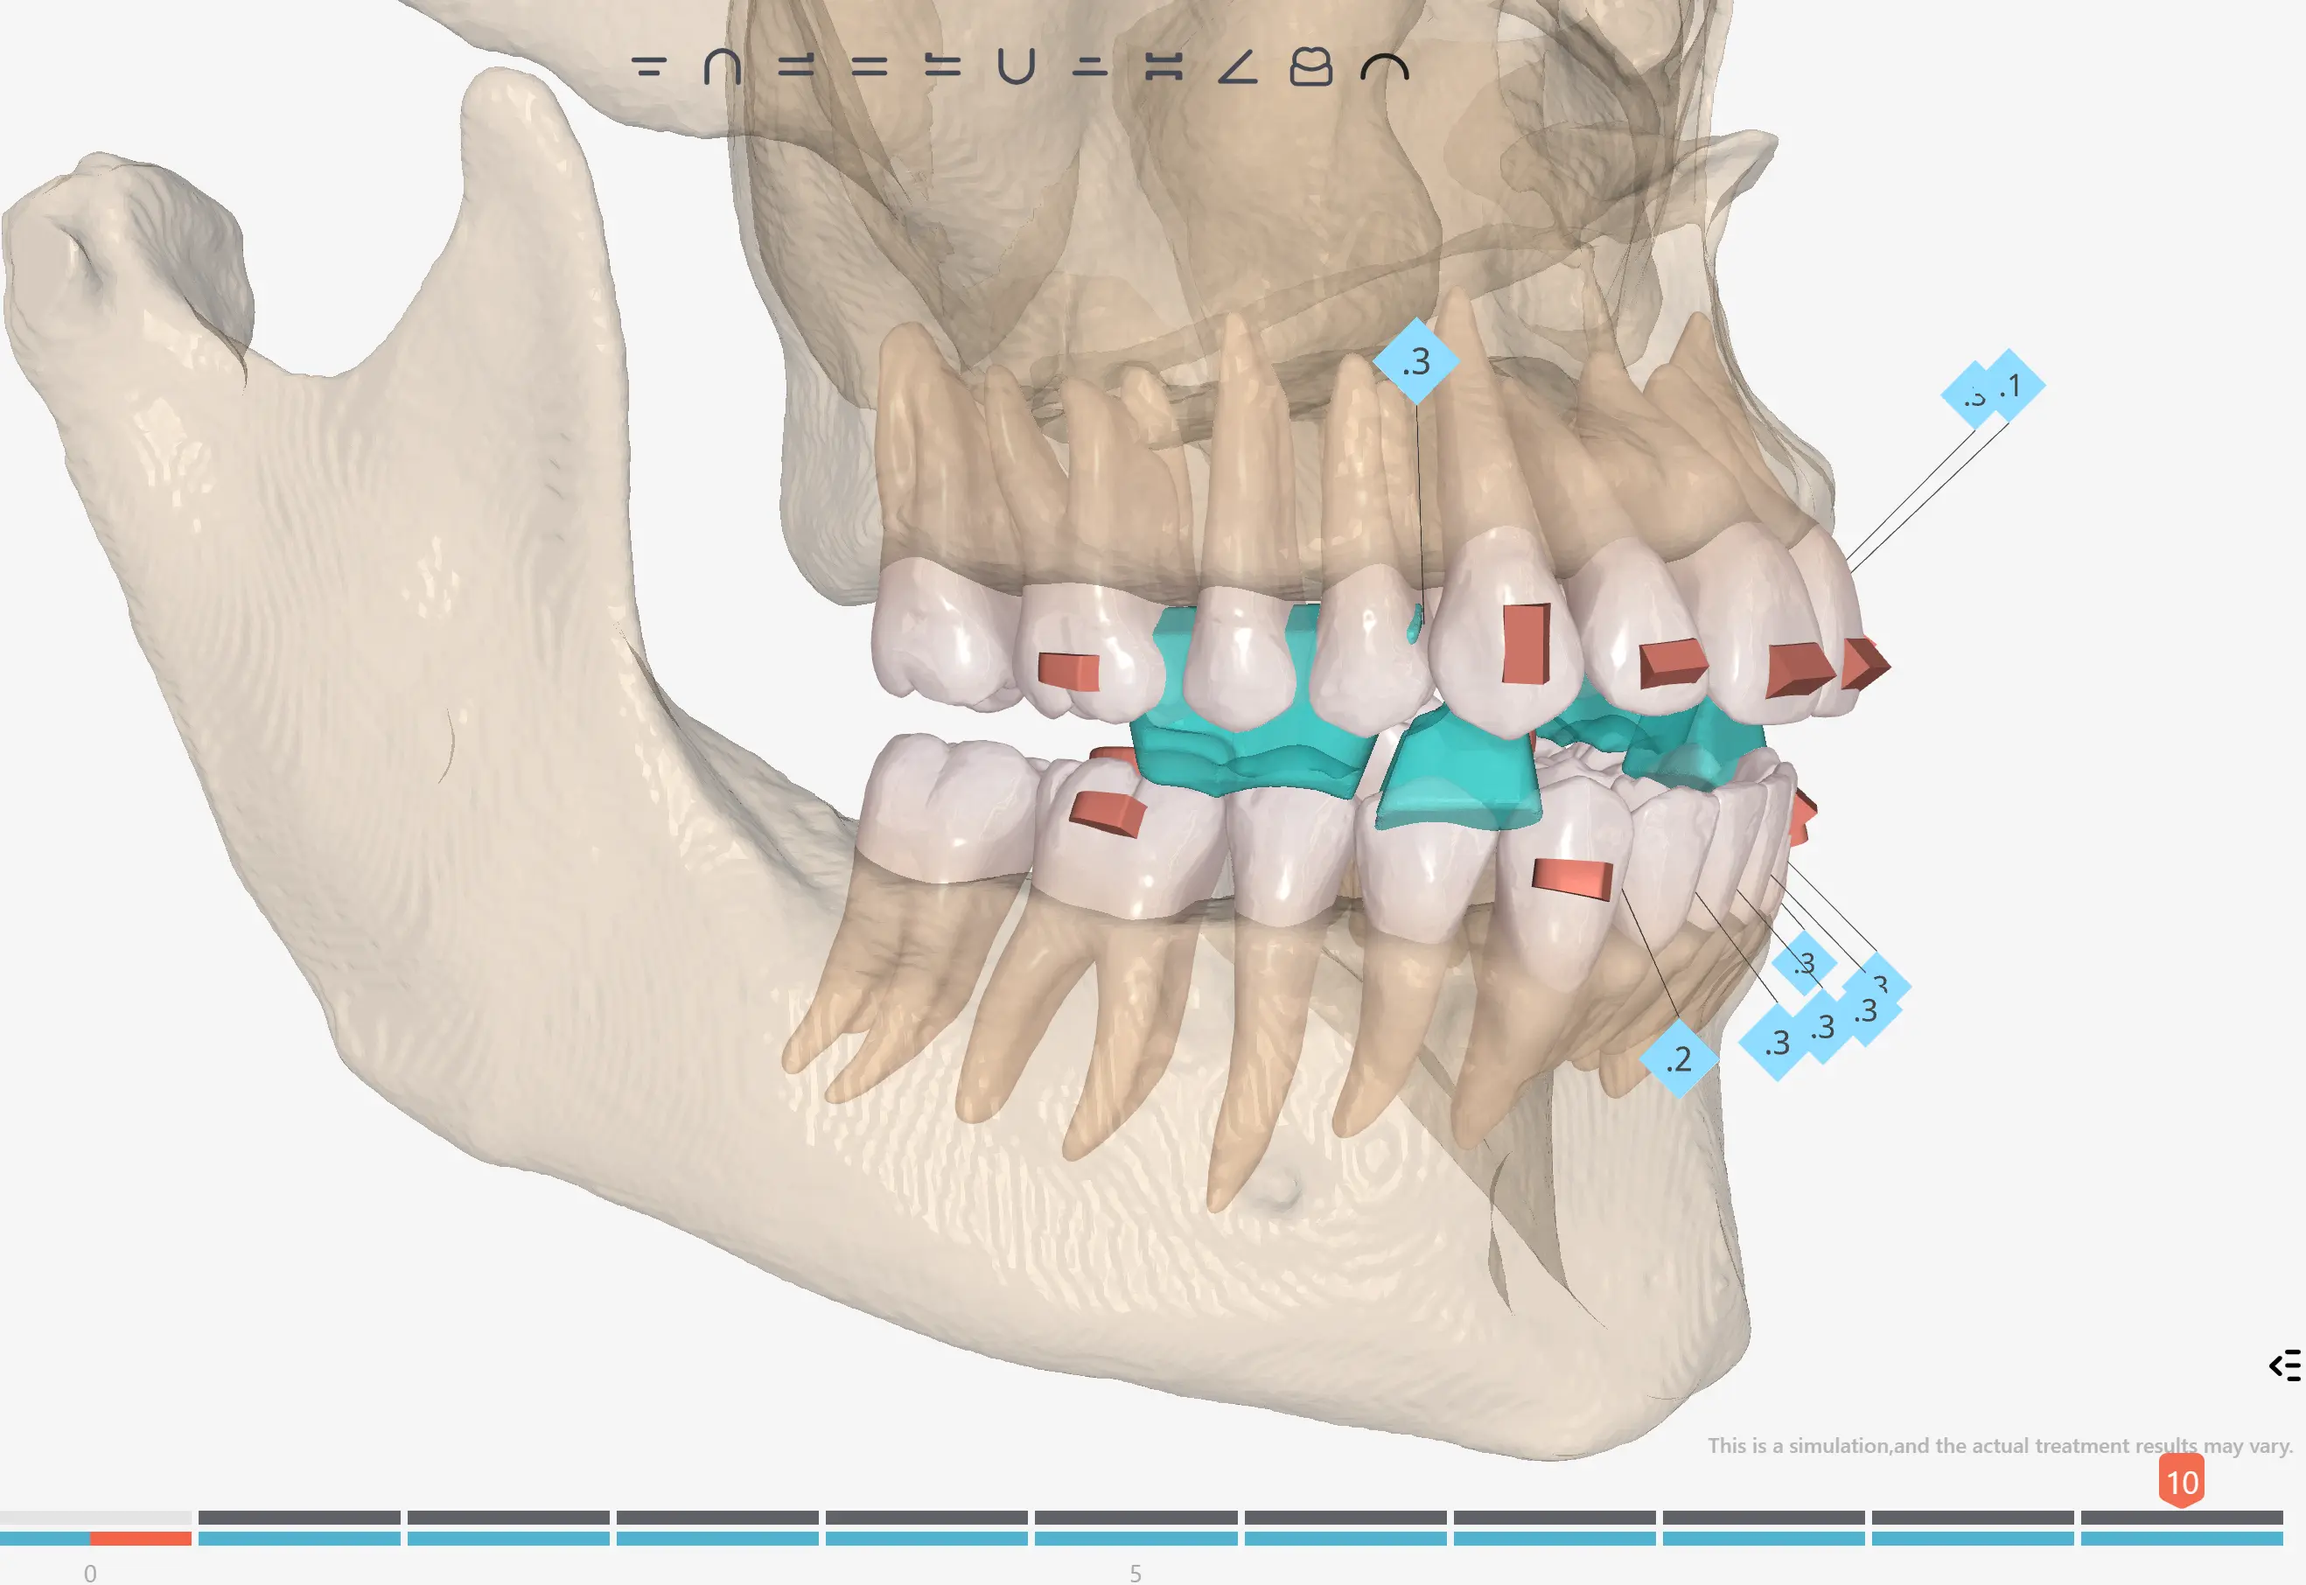
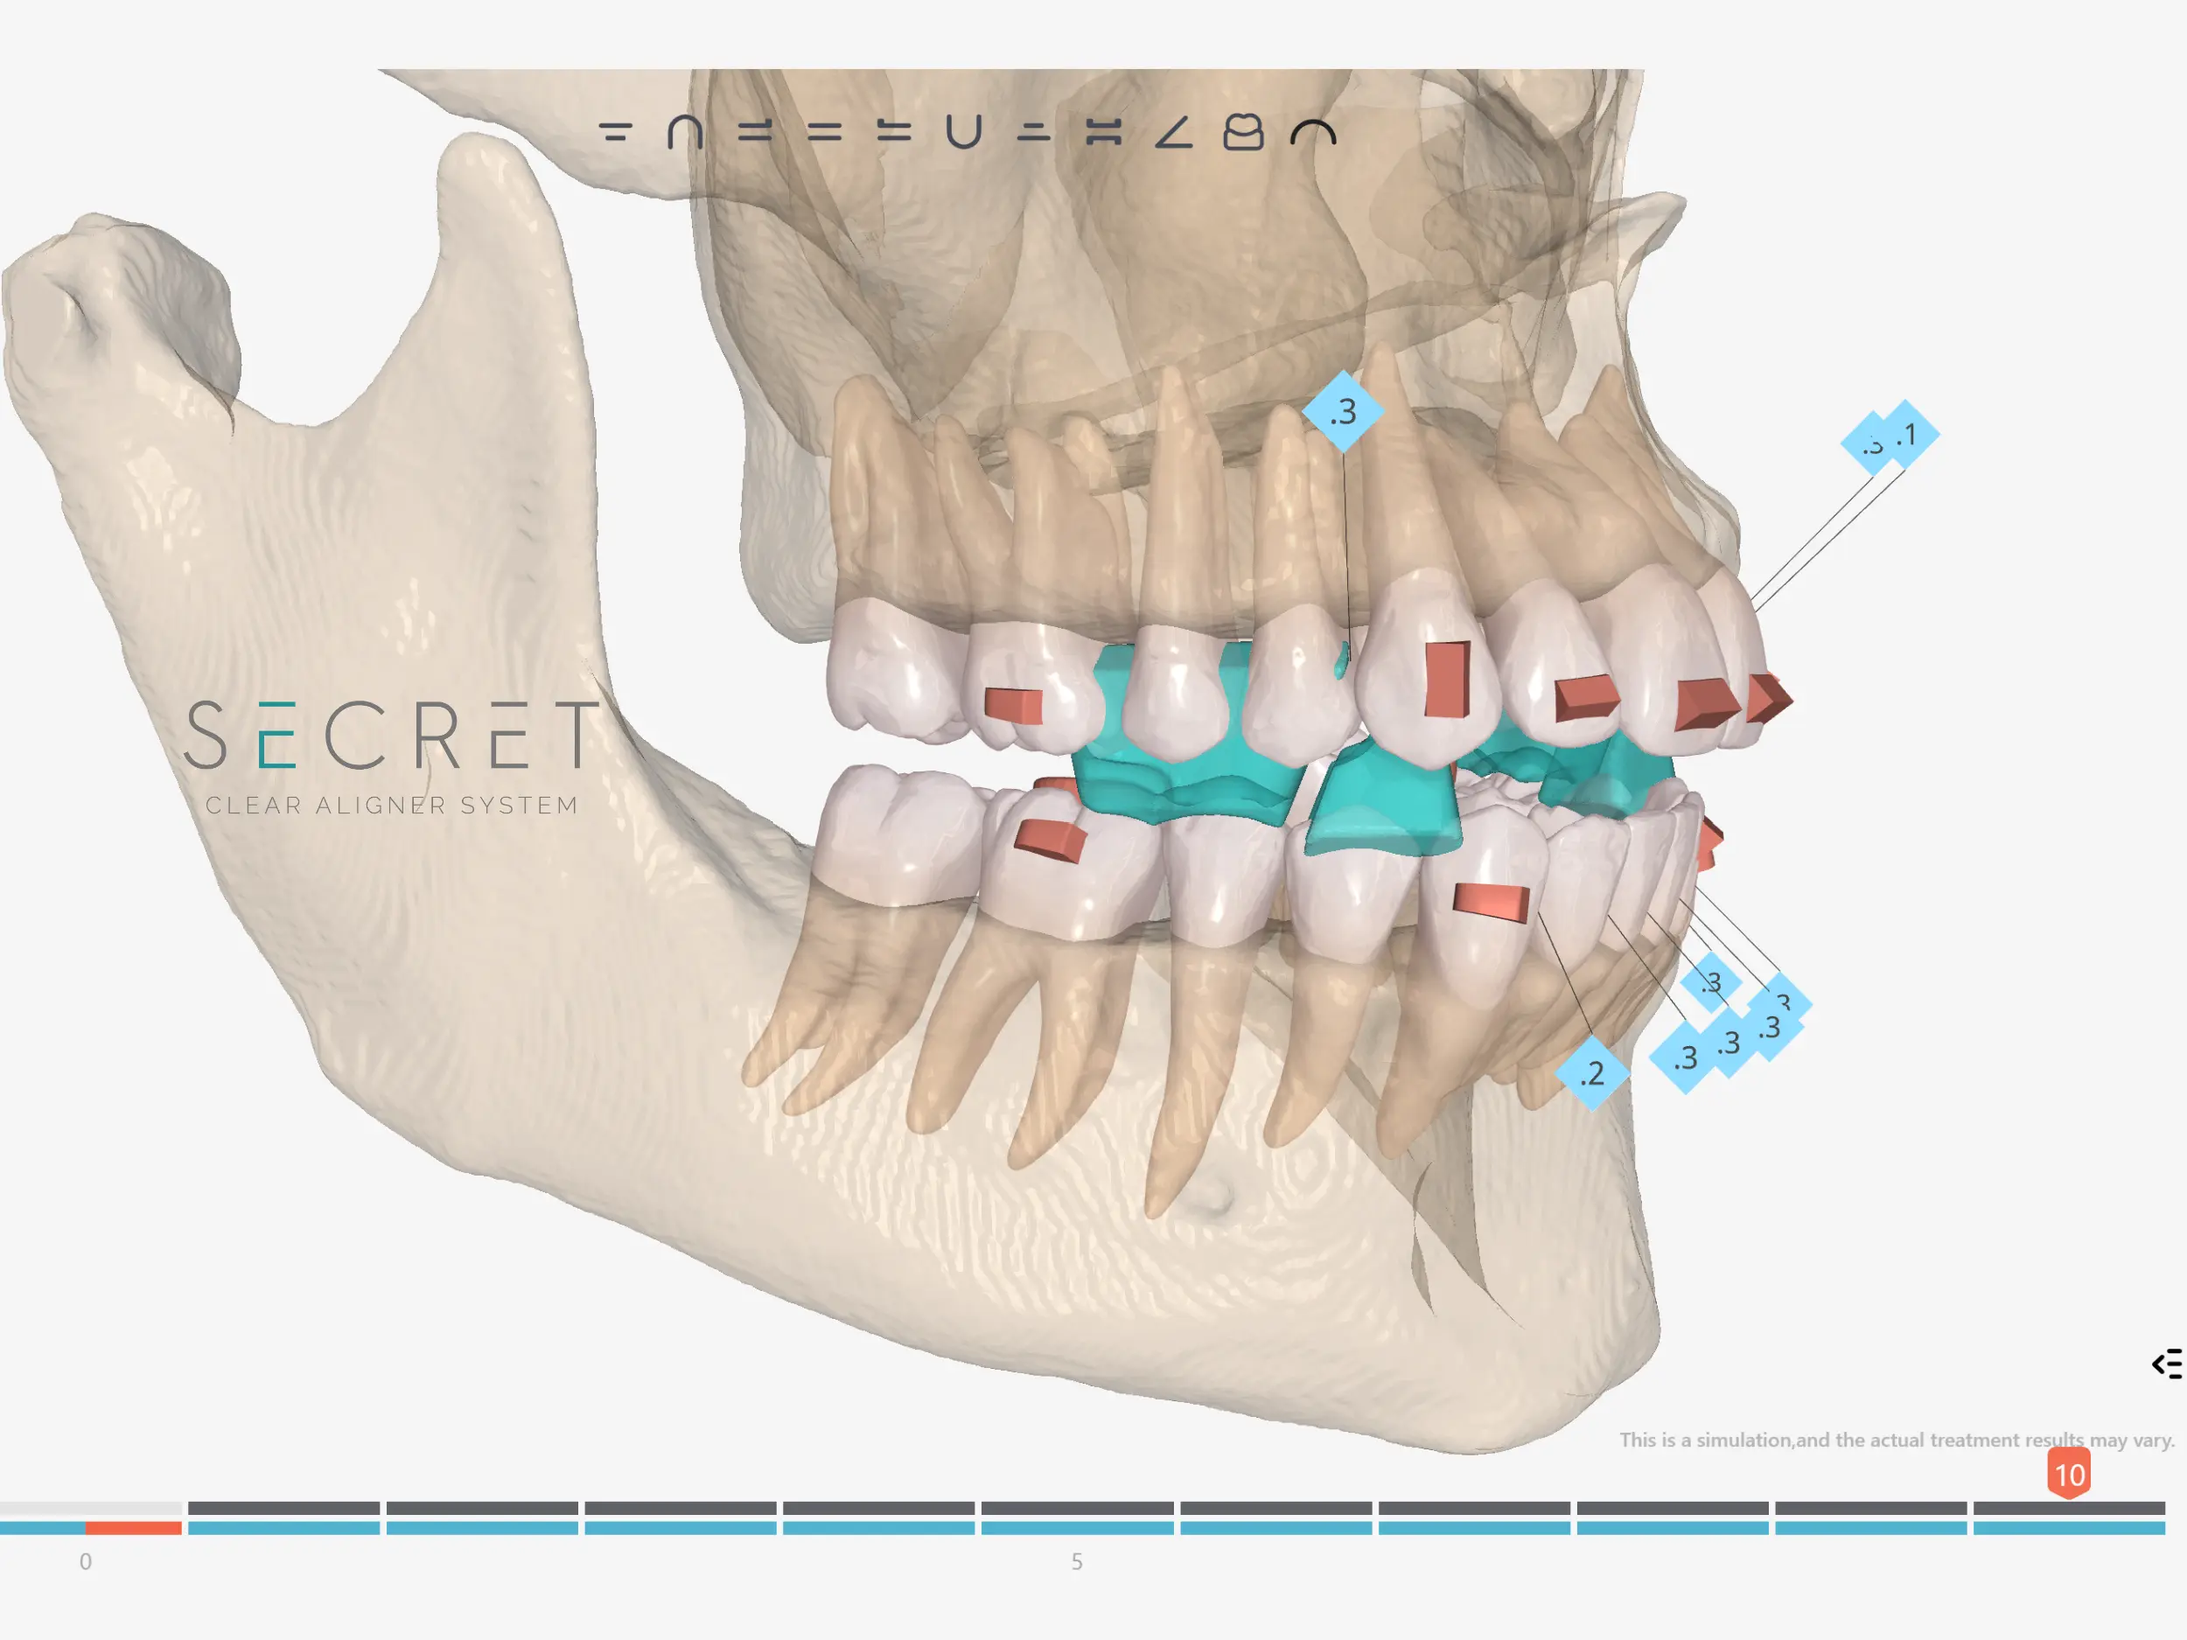
change for new funcnalites

diff --git a/resources/views/layouts/modal.blade.php b/resources/views/layouts/modal.blade.php
@@ -444,7 +444,7 @@
             </div>
 
             <div class="modal-body">
-                <img src="{{ asset('public/assets/secret-blocks.png') }}" alt="Precision Cuts Placement" class="img-fluid shadow-sm">
+                <img src="{{ asset('public/assets/secret-blocks.webp') }}" alt="Precision Cuts Placement" class="img-fluid shadow-sm">
             </div>
 
             <div class="modal-footer">
@@ -760,3 +760,22 @@
 </div>
 
 
+<div class="modal fade" id="text-info-modal" tabindex="-1" aria-labelledby="text-info-title" aria-hidden="true">
+  <div class="modal-dialog modal-dialog-centered">
+        <div class="modal-content">
+
+            <div class="modal-header">
+                <h5 class="modal-title" id="text-info-title"></h5>
+                <button type="button" class="btn-close" data-bs-dismiss="modal" aria-label="Close"></button>
+            </div>
+
+            <div class="modal-body">
+                <p id="text-info"></p>
+            </div>
+
+            <div class="modal-footer">
+                <button type="button" class="btn btn-secondary" data-bs-dismiss="modal">Close</button>
+            </div>
+        </div>
+    </div>
+</div>
